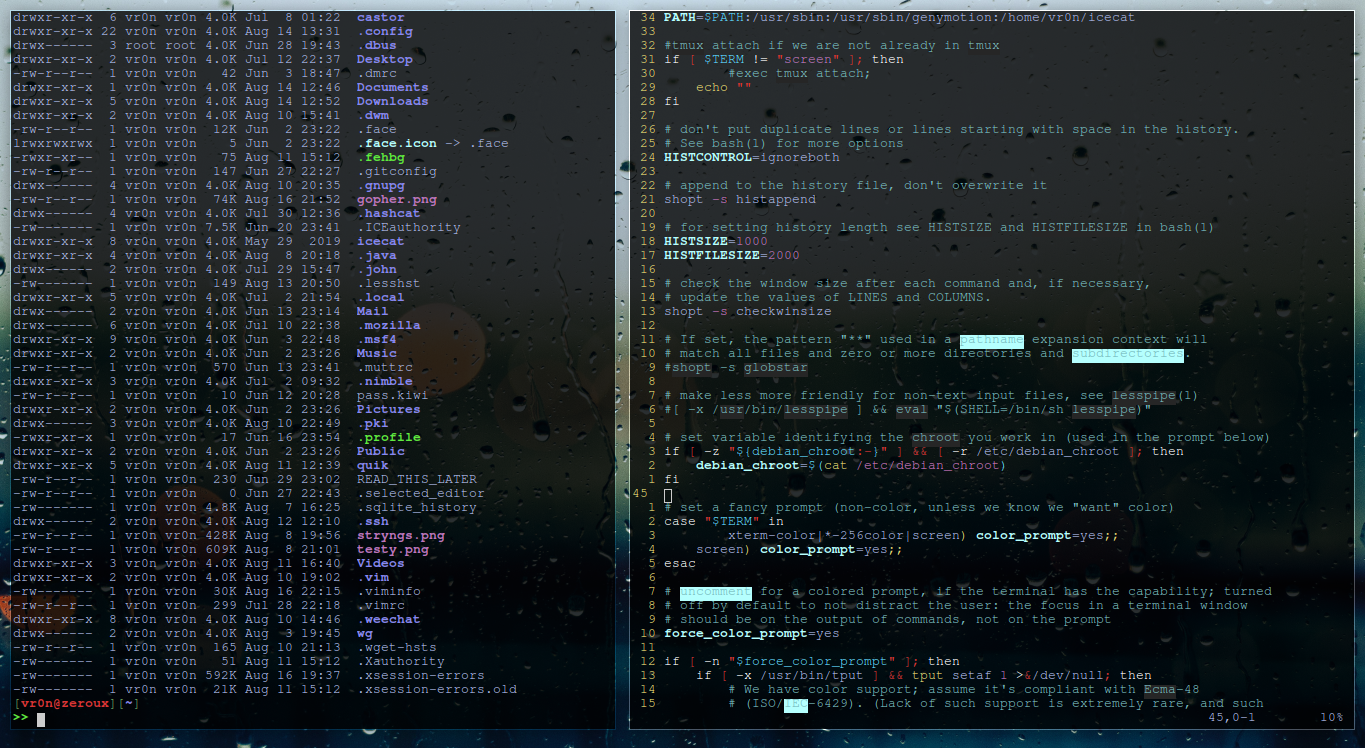
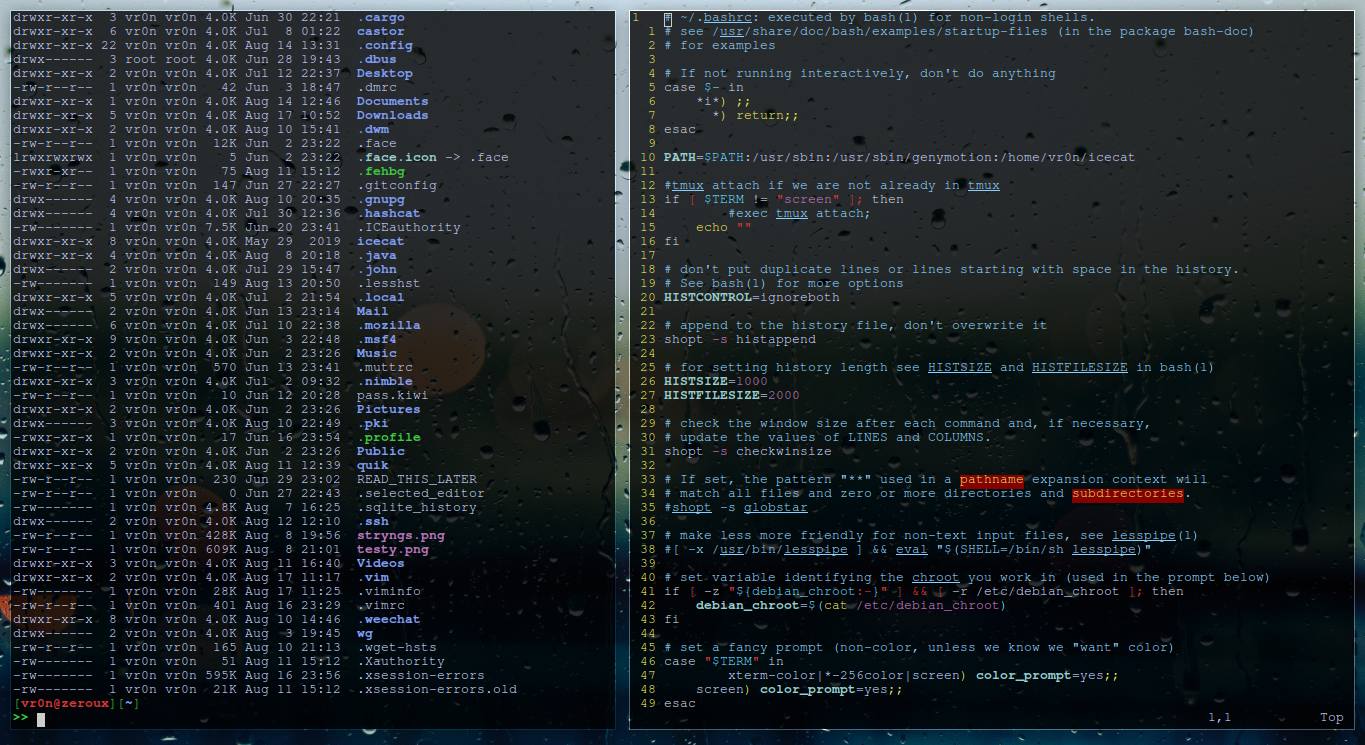
Hopefully, last colour update for awhile...

Changed region(s): [[0.0, 0.0, 0.9846, 1.0], [0.8615, 0.3396, 0.8923, 0.3705]]

diff --git a/vr0n/st/config.def.h b/vr0n/st/config.def.h
@@ -92,10 +92,10 @@ static const char *colorname[] = {
 	/* 8 normal colors */
 	"#000000", //black
 	"#D35F5F", //red
-	"#7FD97F", //green
+	"#3fd93f", //green
 	"#F1F185", //yellow
-	"#8888f2", //blue
-	"#F7A1EC", //magenta
+	"#3939fa", //blue
+	"#d474c7", //magenta
 	"#88D0FF", //cyan
 	"#c4d0ff", //gray - main text
 

diff --git a/vr0n/st/config.h b/vr0n/st/config.h
@@ -92,10 +92,10 @@ static const char *colorname[] = {
 	/* 8 normal colors */
 	"#000000", //black
 	"#D35F5F", //red
-	"#7FD97F", //green
+	"#3fd93f", //green
 	"#F1F185", //yellow
-	"#8888f2", //blue
-	"#F7A1EC", //magenta
+	"#3939fa", //blue
+	"#d474c7", //magenta
 	"#88D0FF", //cyan
 	"#c4d0ff", //gray - main text
 
